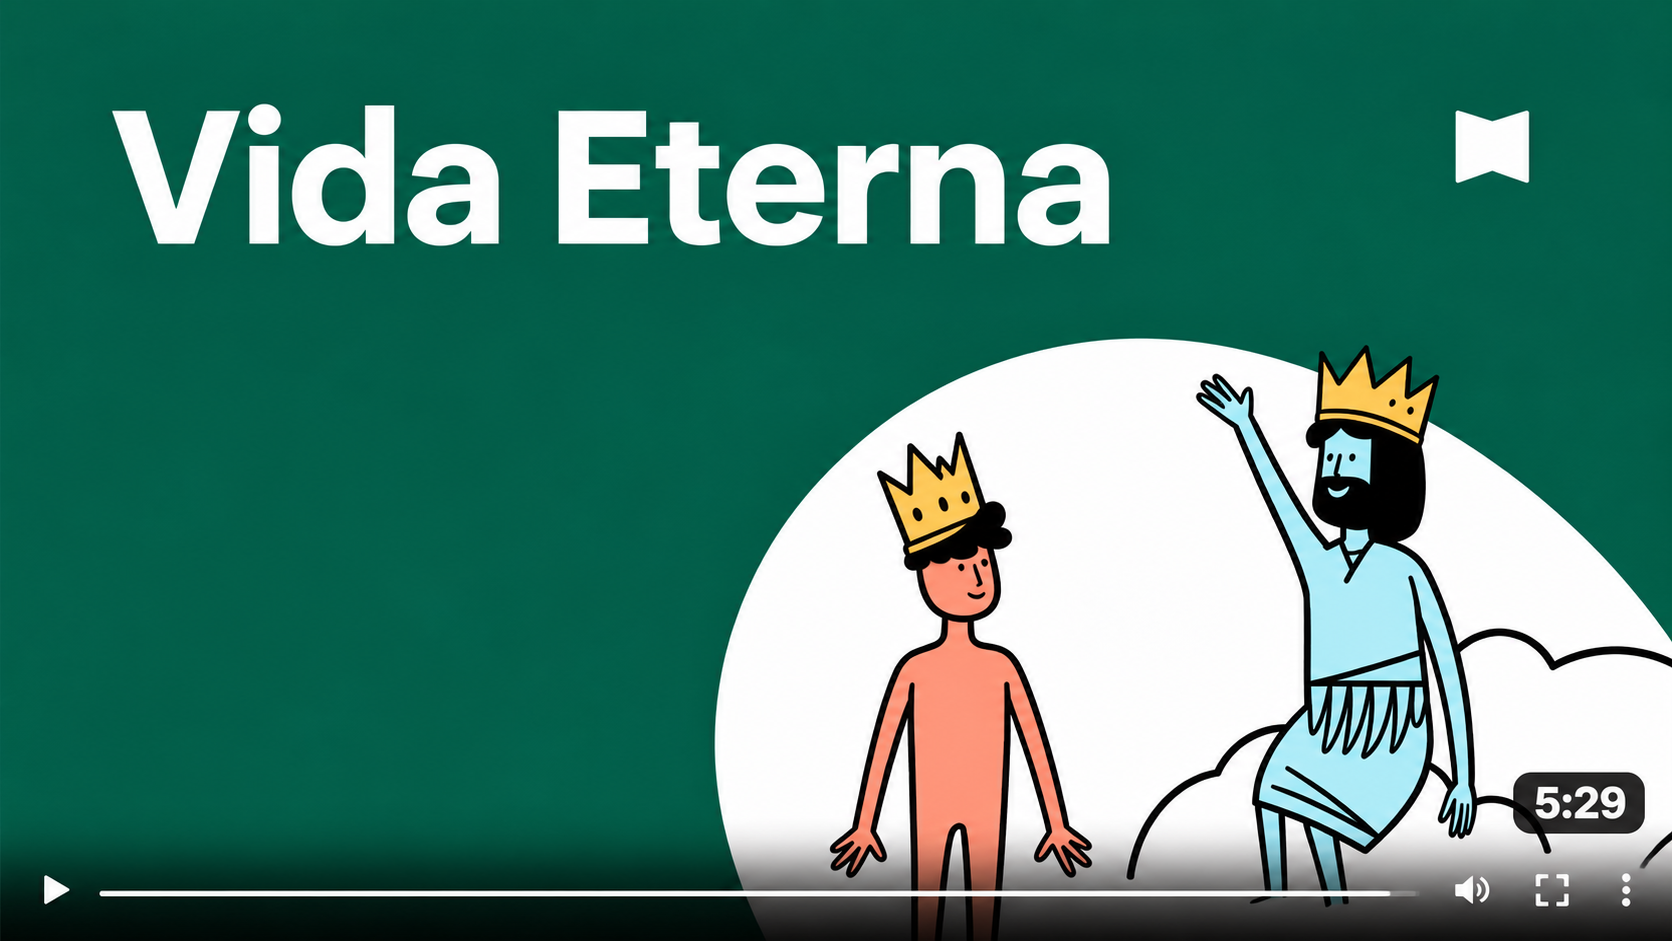
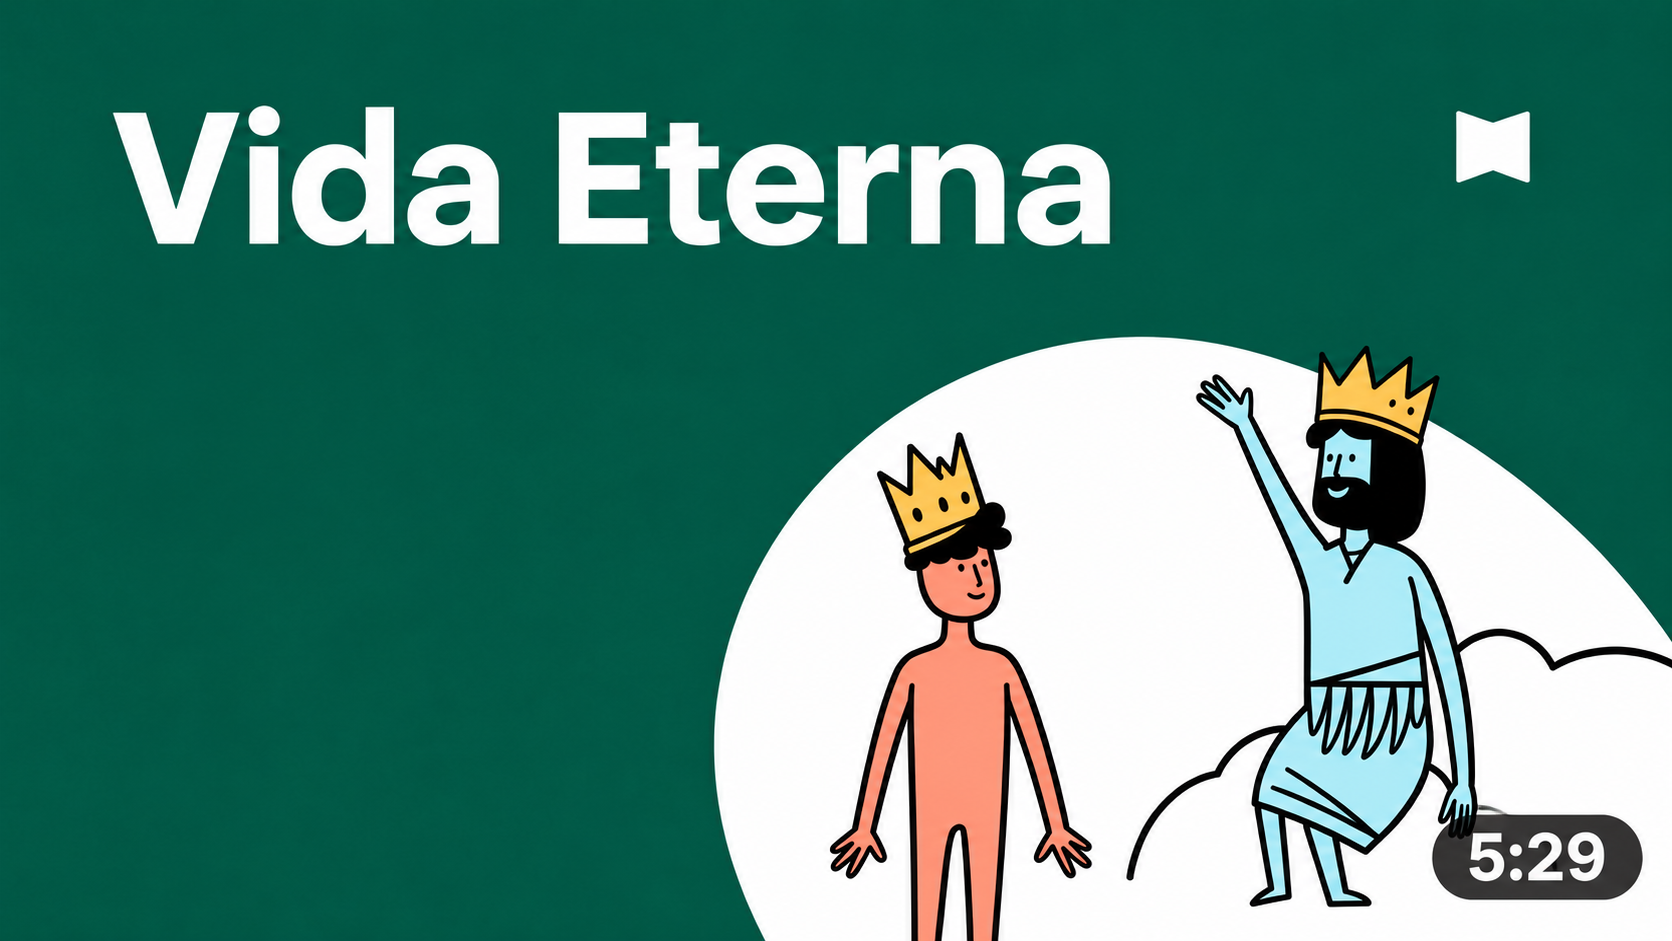
Corregimos una imagen defectuosa y cambiamos el background de temas

diff --git a/activos/css/versículos.css b/activos/css/versículos.css
@@ -351,13 +351,8 @@ button {
 
     padding: 16px 14px;
 
-    background: linear-gradient(
-        120deg,
-        #26352C,
-        #355C4A,
-        #64846E
-    );
-    color: #F5F2EA;
+    background: #F5F2EA;
+    color: black;
 
     border-radius: 16px;
 }
@@ -402,7 +397,7 @@ button {
 }
 
 .tema:hover {
-    background-color: #383535;
+    background-color: #cfccc2;
 }
 
 .tema img,
